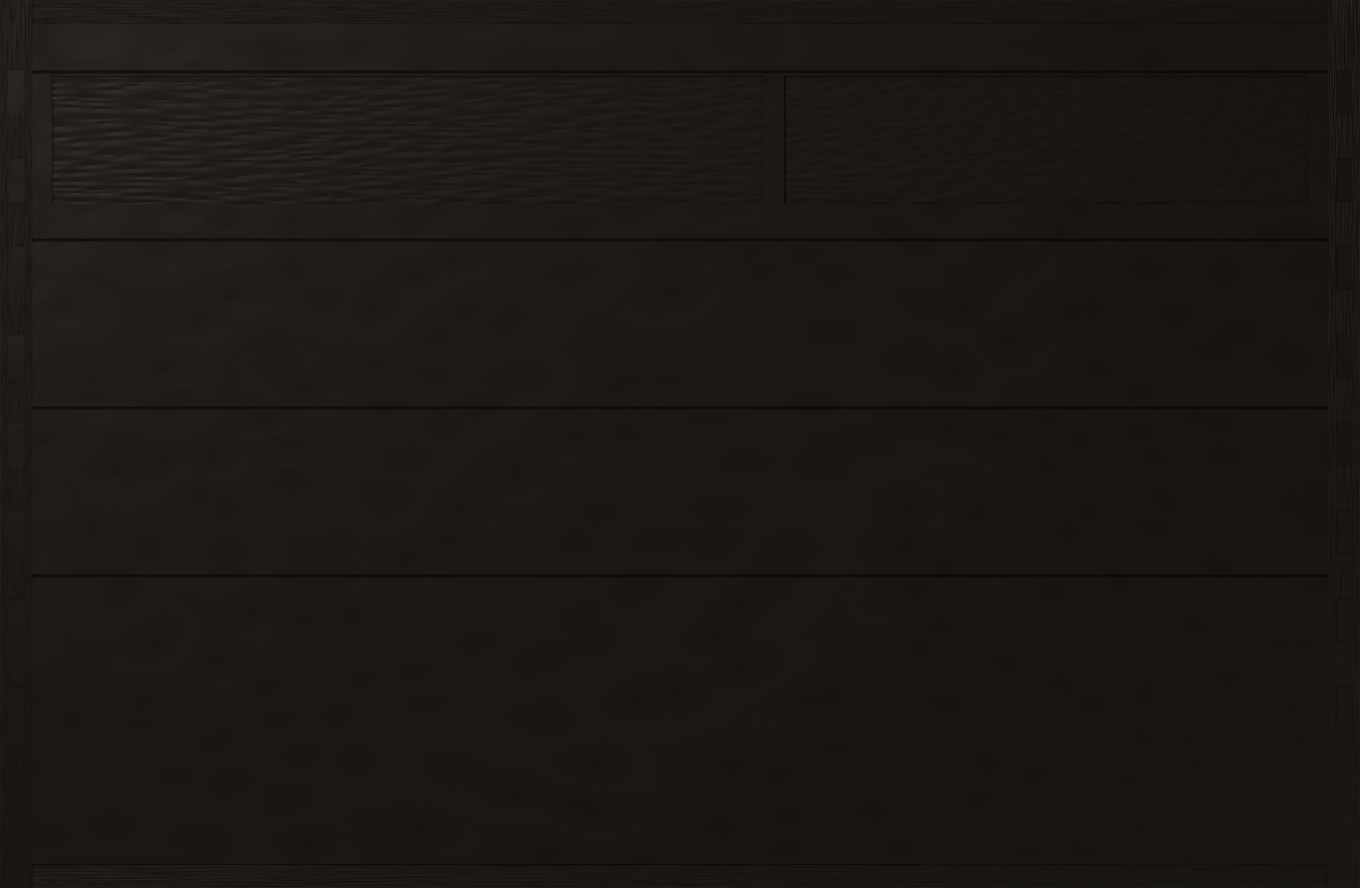
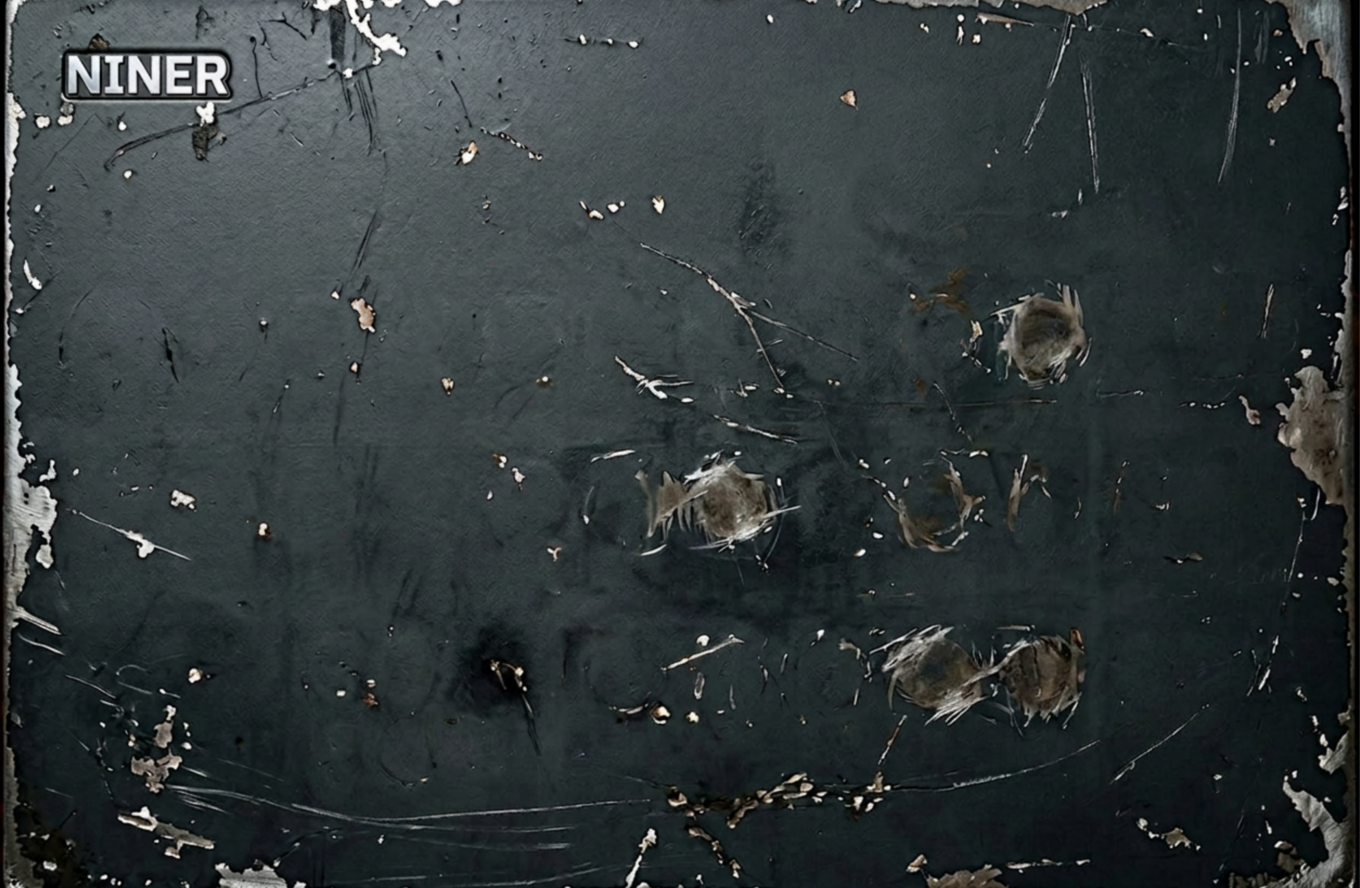
WIP: bare-metal faceplate + restore native UI scaling (regression fix)
⚠️ WORK IN PROGRESS — not release-ready. If you cloned this, the GUI is
mid-rework: the chassis is a placeholder bare plate whose baked NINER logo is
misaligned/clipped. A clean logo-less plate + an isolated code-drawn logo are
pending. Do not tag/release from this commit.

GUI rework — bare-plate strategy:
- assets/chassis.png: replaced the FALLOUT photoreal chassis with a bare
  battered-metal plate. The art carries no knob grid / labels / sockets, so the
  whole faceplate-vs-grid alignment problem is gone — every interactive element
  is code-drawn and grid-locked by construction.
- Re-enable procedural chrome over the bare plate: SHOW_KNOB_LABELS (knob.rs),
  SHOW_SECTION_LABELS + SHOW_CORNER_SCREWS (panels.rs) = true. Header logo
  stays baked for now (SHOW_HEADER_LOGO=false) — KNOWN misalignment, to be
  replaced by an isolated code-drawn logo (inverted-N), pending assets.
- knob.rs: NINER_ALIGN_TEMPLATE=1 dev overlay (magenta knob-grid rings) kept as
  a gated authoring aid.

UI-scale regression fix (PR #4 broke standalone scaling):
- Root cause: PR #4 swapped the working baseview *native* scaling lever for
  ctx.set_zoom_factor(), which upstream egui-baseview (BillyDM @user)
  ignores — it tessellates/renders at its own pixels_per_point (the baseview
  scale policy, pinned to 1.0). So at 1.5x the window grew but content stayed
  1x, with per-frame "pixels_per_point changed between text layout and
  tessellation" warnings.
- Fix: restore native scaling.
[…]

diff --git a/src/ui/panels.rs b/src/ui/panels.rs
@@ -18,6 +18,11 @@ use crate::ui::widgets::{
     draw_rack_ear, draw_screw, lit_rect_default, param_knob, param_knob_compact,
 };
 
+/// The bare faceplate art carries no baked-in section labels, so the live
+/// UI draws SUB/TOP/MID/SAT/EQ itself (grid-locked by construction). Set
+/// `false` only if a future chassis bakes its own section labels.
+pub const SHOW_SECTION_LABELS: bool = true;
+
 pub const KNOB_SIZE: f32 = 32.0;
 pub const KNOB_SPACING: f32 = 52.0;
 pub const RACK_EAR_W: f32 = 16.0;
@@ -184,18 +189,23 @@ pub fn draw_chrome(
         }
     }
 
+    // The bare faceplate art has no baked corner hardware, so the procedural
+    // hex screws are drawn. Set `false` for a screw-less chassis.
+    const SHOW_CORNER_SCREWS: bool = true;
     // Draw hex screws on top of chassis (always, regardless of bake state).
-    for i in 0..4 {
-        let (bx, by) = screw_bases[i];
-        let off = screw_offsets[i];
-        let scale = screw_scales[i];
-        crate::ui::widgets::draw_hex_screw(
-            painter,
-            bx + off.x,
-            by + off.y,
-            SCREW_R * scale,
-            SCREW_BASE_ANGLES[i],
-        );
+    if SHOW_CORNER_SCREWS {
+        for i in 0..4 {
+            let (bx, by) = screw_bases[i];
+            let off = screw_offsets[i];
+            let scale = screw_scales[i];
+            crate::ui::widgets::draw_hex_screw(
+                painter,
+                bx + off.x,
+                by + off.y,
+                SCREW_R * scale,
+                SCREW_BASE_ANGLES[i],
+            );
+        }
     }
 
     painter.text(
@@ -1099,20 +1109,22 @@ pub fn draw_sub_top_row(
         egui::Align2::LEFT_TOP,
     );
     let painter = ui.painter();
-    painter.text(
-        sub_pos,
-        egui::Align2::LEFT_TOP,
-        "SUB",
-        row_label_font.clone(),
-        theme::WHITE,
-    );
-    painter.text(
-        top_pos,
-        egui::Align2::LEFT_TOP,
-        "TOP",
-        row_label_font,
-        theme::WHITE,
-    );
+    if SHOW_SECTION_LABELS {
+        painter.text(
+            sub_pos,
+            egui::Align2::LEFT_TOP,
+            "SUB",
+            row_label_font.clone(),
+            theme::WHITE,
+        );
+        painter.text(
+            top_pos,
+            egui::Align2::LEFT_TOP,
+            "TOP",
+            row_label_font,
+            theme::WHITE,
+        );
+    }
 
     row_knob_y + KNOB_SIZE + 34.0
 }
@@ -1407,13 +1419,15 @@ pub fn draw_mid_row(
         egui::vec2(40.0, 14.0),
         egui::Align2::LEFT_TOP,
     );
-    ui.painter().text(
-        mid_pos,
-        egui::Align2::LEFT_TOP,
-        "MID",
-        crate::ui::layout_overrides::label_font(ui.ctx(), 11.0),
-        theme::WHITE,
-    );
+    if SHOW_SECTION_LABELS {
+        ui.painter().text(
+            mid_pos,
+            egui::Align2::LEFT_TOP,
+            "MID",
+            crate::ui::layout_overrides::label_font(ui.ctx(), 11.0),
+            theme::WHITE,
+        );
+    }
 
     row_knob_y + KNOB_SIZE + 34.0
 }
@@ -1474,20 +1488,22 @@ pub fn draw_sat_eq_row(
         // second sub-row of the SAT cluster but above the sat_eq_return
         // boundary — i.e., still inside the SAT section. EQ stays at the
         // top-left of its sub-section.
-        painter.text(
-            sat_label_pos,
-            egui::Align2::LEFT_TOP,
-            "SAT",
-            row_label_font.clone(),
-            theme::WHITE,
-        );
-        painter.text(
-            eq_label_pos,
-            egui::Align2::LEFT_TOP,
-            "EQ",
-            row_label_font,
-            theme::WHITE,
-        );
+        if SHOW_SECTION_LABELS {
+            painter.text(
+                sat_label_pos,
+                egui::Align2::LEFT_TOP,
+                "SAT",
+                row_label_font.clone(),
+                theme::WHITE,
+            );
+            painter.text(
+                eq_label_pos,
+                egui::Align2::LEFT_TOP,
+                "EQ",
+                row_label_font,
+                theme::WHITE,
+            );
+        }
         draw_groove(
             painter,
             panel_rect.left() + CONTENT_LEFT - 4.0,

diff --git a/src/ui/knob.rs b/src/ui/knob.rs
@@ -1,6 +1,20 @@
 use crate::ui::theme;
 use nih_plug_egui::egui;
 
+/// One-time read of `NINER_ALIGN_TEMPLATE`. When set to `1`/`true`, knobs
+/// render as magenta alignment rings instead of normal caps — a dev aid for
+/// authoring background faceplate art that matches the fixed knob grid.
+fn align_template_enabled() -> bool {
+    use std::sync::OnceLock;
+    static ENABLED: OnceLock<bool> = OnceLock::new();
+    *ENABLED.get_or_init(|| {
+        matches!(
+            std::env::var("NINER_ALIGN_TEMPLATE").as_deref(),
+            Ok("1") | Ok("true")
+        )
+    })
+}
+
 pub struct KnobResponse {
     pub changed: bool,
     pub reset: bool,
@@ -362,16 +376,51 @@ fn knob_inner(
                     );
                 });
             }
+
+            // Alignment-template overlay: when `NINER_ALIGN_TEMPLATE=1`, draw
+            // a bright magenta ring + crosshair at each knob's *actual* center
+            // and radius, on top of everything. Screenshot it to get a
+            // pixel-exact spec of where every knob lands, so background
+            // faceplate art can be authored to match the fixed code grid.
+            // Off in normal runs (one-time env read).
+            if align_template_enabled() {
+                let m = egui::Color32::from_rgb(0xff, 0x00, 0xff);
+                painter.circle_stroke(center, radius, egui::Stroke::new(1.5, m));
+                painter.circle_filled(center, 1.5, m);
+                painter.line_segment(
+                    [
+                        center - egui::vec2(radius + 3.0, 0.0),
+                        center + egui::vec2(radius + 3.0, 0.0),
+                    ],
+                    egui::Stroke::new(0.75, m),
+                );
+                painter.line_segment(
+                    [
+                        center - egui::vec2(0.0, radius + 3.0),
+                        center + egui::vec2(0.0, radius + 3.0),
+                    ],
+                    egui::Stroke::new(0.75, m),
+                );
+            }
         }
 
-        // Label below
+        // Label below. The bare faceplate art carries no baked-in knob
+        // labels, so the code draws them (grid-locked by construction). Set
+        // `false` only if a future chassis bakes its own knob labels.
+        const SHOW_KNOB_LABELS: bool = true;
         ui.add_space(label_gap);
         ui.with_layout(egui::Layout::top_down(egui::Align::Center), |ui| {
-            ui.label(
-                egui::RichText::new(label)
-                    .font(egui::FontId::new(9.5, egui::FontFamily::Monospace))
-                    .color(theme::WHITE),
-            );
+            if SHOW_KNOB_LABELS {
+                ui.label(
+                    egui::RichText::new(label)
+                        .font(egui::FontId::new(9.5, egui::FontFamily::Monospace))
+                        .color(theme::WHITE),
+                );
+            } else {
+                // Reserve the same vertical extent the label would occupy
+                // so the knob box height (and thus row layout) is identical.
+                ui.add_space(9.5);
+            }
         });
     });
 

diff --git a/src/ui/editor.rs b/src/ui/editor.rs
@@ -169,7 +169,6 @@ pub fn create(
     // drain the outcome once the thread finishes.
     let bounce_inflight: Arc<Mutex<Option<mpsc::Receiver<ExportOutcome>>>> =
         Arc::new(Mutex::new(None));
-    let editor_state_clone = Arc::clone(&editor_state);
     // Visually smoothed GR meter value — instant attack, slow release, held
     // across frames so the bar doesn't flicker between audio buffers.
     let gr_display = Arc::new(Mutex::new(0.0f32));
@@ -282,32 +281,17 @@ pub fn create(
             crate::ui::layout_overrides::init(ctx);
         },
         move |ctx, setter, _state| {
-            // UI scale (1.0 / 1.5 / 2.0). We drive both egui's content zoom
-            // and a matching programmatic window resize from a single value,
-            // so the scale badge works identically in a DAW and standalone.
-            //
-            // Baseview's native scale is pinned to 1.0 (DAW hosts default to
-            // it; the standalone launcher passes `--dpi-scale 1.0`), so the
-            // effective pixels-per-point is exactly `scale`: the host window
-            // grows to BASE × scale physical pixels while the layout keeps
-            // drawing into a fixed BASE logical space. Uniform scale, no
-            // reflow — knob rows never move relative to each other.
-            //
-            // `set_zoom_factor` is cheap and idempotent per frame; the resize
-            // request only fires when the stored size actually differs, so a
-            // settled scale costs one comparison.
-            {
-                let scale = (*params.ui_scale.lock()).clamp(1.0, 2.0);
-                ctx.set_zoom_factor(scale);
-                let (bw, bh) = crate::params::BASE_WINDOW_SIZE;
-                let want = (
-                    (bw as f32 * scale).round() as u32,
-                    (bh as f32 * scale).round() as u32,
-                );
-                if editor_state_clone.size() != want {
-                    editor_state_clone.set_requested_size(want);
-                }
-            }
+            // UI scale (1.0 / 1.5 / 2.0) is driven by baseview's *native* scale
+            // factor — NOT egui's zoom. This egui-baseview tessellates at its
+            // own `pixels_per_point` (the baseview scale policy) and ignores
+            // `ctx.set_zoom_factor()`, so driving zoom only desyncs layout vs.
+            // tessellation (the "pixels_per_point changed" warning) and leaves
+            // content at 1×. Instead the standalone launcher forwards the saved
+            // factor as `--dpi-scale $SCALE`; the window opens at the logical
+            // BASE size (see params.rs) and baseview renders it at BASE × scale.
+            // The in-GUI badge persists the factor and applies on the next open.
+            // (Live in-DAW rescale would need an egui-baseview patch to render
+            // at the zoom-aware ppp — tracked as a follow-up.)
 
             // Invalidate texture caches when the egui::Context changes. The
             // `Arc<Mutex<Option<TextureHandle>>>`s captured above outlive any
@@ -739,8 +723,15 @@ pub fn create(
                     let wordmark_w = lockup_h * (342.0 / 80.0); // ~85.5 px
                     let lockup_gap = 5.0;
 
+                    // The faceplate art already carries a baked-in NINER
+                    // wordmark + "9" badge, so the live header lockup is
+                    // suppressed to avoid a doubled / misaligned logo. Flip
+                    // to `true` to restore the procedural lockup for a
+                    // logo-less chassis.
+                    const SHOW_HEADER_LOGO: bool = false;
+
                     // "9" badge — sits at CONTENT_LEFT, left of the wordmark.
-                    {
+                    if SHOW_HEADER_LOGO {
                         let mut tex = nine_badge_texture.lock();
                         if tex.is_none() {
                             let bytes = include_bytes!("../../assets/niner_9.png");
@@ -797,7 +788,7 @@ pub fn create(
                     }
 
                     // NINER wordmark — sits to the right of the "9" badge.
-                    {
+                    if SHOW_HEADER_LOGO {
                         let mut tex = logo_texture.lock();
                         if tex.is_none() {
                             let bytes = include_bytes!("../../assets/niner_logo.png");
@@ -1079,7 +1070,9 @@ pub fn create(
                             let ui_resp = ui
                                 .interact(hit, egui::Id::new("ui_scale_btn"), egui::Sense::click())
                                 .on_hover_cursor(egui::CursorIcon::PointingHand)
-                                .on_hover_text("UI scale — click to cycle (1x / 1.5x / 2x).");
+                                .on_hover_text(
+                                    "UI scale — click to cycle (1x / 1.5x / 2x). Reopen the plugin to apply.",
+                                );
                             let color = if ui_resp.hovered() {
                                 theme::WHITE
                             } else {
@@ -1101,7 +1094,7 @@ pub fn create(
                                 };
                                 *lock = next;
                                 crate::util::paths::save_ui_scale(next);
-                                tracing::info!("[ui_scale] cycled → {next}x (applied live)");
+                                tracing::info!("[ui_scale] saved → {next}x (applies on plugin reopen)");
                             }
                         }
                     }

diff --git a/src/params.rs b/src/params.rs
@@ -377,20 +377,17 @@ pub const BASE_WINDOW_SIZE: (u32, u32) = (680, 444);
 
 impl Default for NinerParams {
     fn default() -> Self {
-        // The window opens at the saved UI scale. Baseview's native scale is
-        // pinned to 1.0 (DAW hosts default to it; the standalone launcher
-        // passes `--dpi-scale 1.0`), so the editor drives all scaling itself
-        // via egui's zoom factor plus a matching window resize (see
-        // `ui::editor`). Opening pre-scaled here avoids a first-frame resize
-        // flash; the editor keeps the window in sync when the badge changes.
+        // The window opens at the logical BASE size. Scaling is applied by
+        // baseview's *native* scale factor (standalone: the launcher forwards
+        // the saved factor as `--dpi-scale $SCALE`; DAW: the host's scale), and
+        // egui-baseview renders the BASE logical space at BASE × scale. We must
+        // NOT pre-multiply by `ui_scale` here or the window would scale twice
+        // (logical × ppp). `ui_scale` is still kept for the badge readout.
         let ui_scale = crate::util::paths::load_ui_scale();
         let (bw, bh) = BASE_WINDOW_SIZE;
 
         Self {
-            editor_state: EguiState::from_size(
-                (bw as f32 * ui_scale).round() as u32,
-                (bh as f32 * ui_scale).round() as u32,
-            ),
+            editor_state: EguiState::from_size(bw, bh),
 
             seq_steps: Arc::new(Mutex::new(DEFAULT_STEP_BITS)),
             seq_accents: Arc::new(Mutex::new(DEFAULT_ACCENT_BITS)),